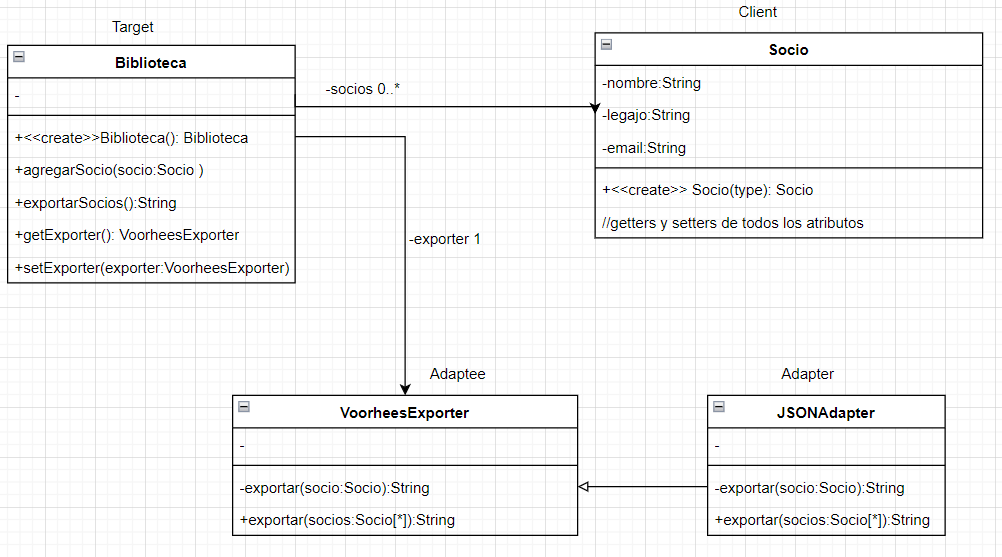
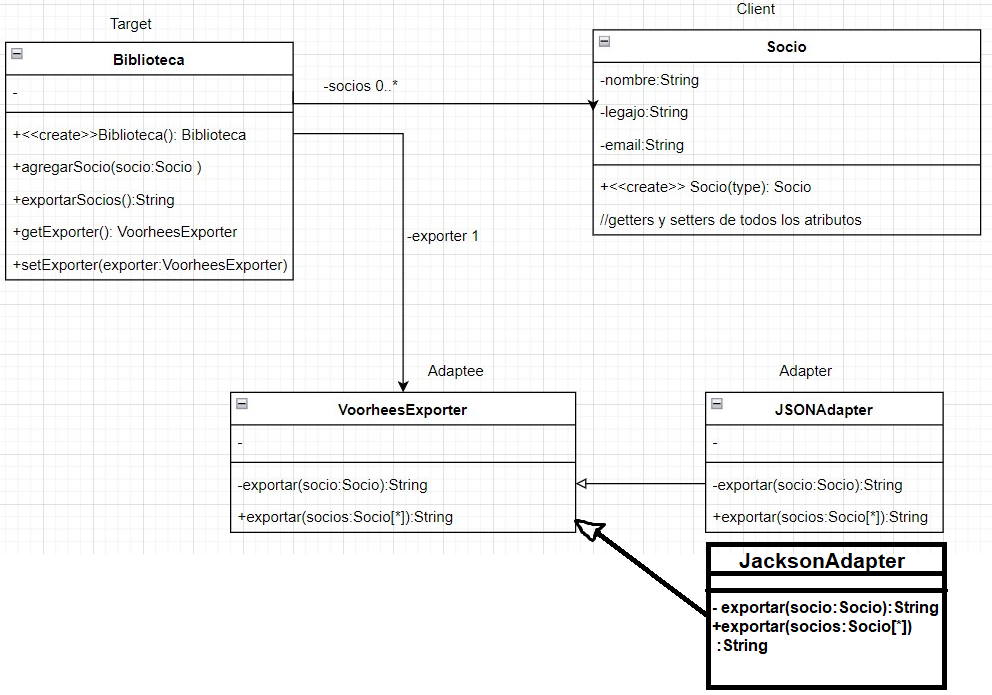
Correcciones 3b y 4, mas que nada mejoras vistas en la clase de consulta

diff --git a/ejercicio3b/ej-biblioteca/src/main/java/ar/edu/unlp/info/oo2/biblioteca/JacksonAdapter.java b/ejercicio3b/ej-biblioteca/src/main/java/ar/edu/unlp/info/oo2/biblioteca/JacksonAdapter.java
@@ -1,0 +1,45 @@
+package ar.edu.unlp.info.oo2.biblioteca;
+
+import java.util.List;
+
+import com.fasterxml.jackson.core.JsonProcessingException;
+import com.fasterxml.jackson.databind.ObjectMapper;
+
+public class JacksonAdapter extends VoorheesExporter {
+
+	private ObjectMapper exportar(Socio socio) {
+		ObjectMapper mapper = new ObjectMapper(); 
+		
+		// esto de try catch me lo pedía para no romper
+		
+		try {
+			mapper.writeValueAsString("nombre: "+ socio.getNombre());
+			mapper.writeValueAsString("email"+socio.getEmail());
+			mapper.writeValueAsString("legajo: "+socio.getLegajo());
+		} catch (JsonProcessingException e) {
+			// TODO Auto-generated catch block
+			e.printStackTrace();
+		}
+		return mapper;
+	}
+	
+	// no se si anda pero tampoco hay mucha info en internet de cómo hacer este
+	@Override
+	public String exportar(List<Socio> socios) {
+		if (socios.isEmpty()) {
+			return "[]";
+		}
+		String separator = System.lineSeparator();
+		StringBuilder buffer = new StringBuilder("[" + separator);
+		socios.forEach(socio -> {
+			buffer.append(this.exportar(socio))
+				.append(",")
+				.append(separator);
+		});
+		// remueve la última coma y fin de línea
+		buffer.setLength(buffer.length() - (separator.length() + 1));
+		buffer.append(separator).append("]");
+		return buffer.toString();
+	}
+	
+}

diff --git a/ejercicio4/src/main/java/ar/edu/unlp/info/oo2/ejercicio4/Planta.java b/ejercicio4/src/main/java/ar/edu/unlp/info/oo2/ejercicio4/Planta.java
@@ -1,16 +1,11 @@
 package ar.edu.unlp.info.oo2.ejercicio4;
 
-public class Planta extends Empleado{
+public class Planta extends CasadoConHijos{ // si sos dardo o maria elena pasa
 	
-	private boolean casado;
-	private int hijos;
 	private int antiguedad;
 	
-	
-	
 	public Planta(boolean casado, int hijos, int antiguedad) {
-		this.casado = casado;
-		this.hijos = hijos;
+		super(casado,hijos);
 		this.antiguedad = antiguedad;
 	}
 
@@ -19,11 +14,7 @@ public class Planta extends Empleado{
 	}
 	
 	public double adicional() {
-		double adicional=0;
-		if(casado) adicional+=5000;
-		adicional+=(2000*hijos);
-		adicional+=(2000*antiguedad);
-		return adicional;
+		return super.adicional() + (2000*antiguedad);
 	}
 	
 

diff --git a/ejercicio4/src/main/java/ar/edu/unlp/info/oo2/ejercicio4/Temporario.java b/ejercicio4/src/main/java/ar/edu/unlp/info/oo2/ejercicio4/Temporario.java
@@ -1,16 +1,11 @@
 package ar.edu.unlp.info.oo2.ejercicio4;
 
-public class Temporario extends Empleado{
+public class Temporario extends CasadoConHijos{ // papucho!!!
 
-	private boolean casado;
-	private int hijos;
 	private int horasTrabajo;
 	
-	
-	
 	public Temporario(boolean casado, int hijos, int horasTrabajo) {
-		this.casado = casado;
-		this.hijos = hijos;
+		super(casado, hijos);
 		this.horasTrabajo = horasTrabajo;
 	}
 
@@ -19,9 +14,6 @@ public class Temporario extends Empleado{
 	}
 	
 	public double adicional() {
-		double adicional=0;
-		if(casado) adicional+=5000;
-		adicional+=(2000*hijos);
-		return adicional;
+		return super.adicional();
 	}
 }

diff --git a/ejercicio4/src/main/java/ar/edu/unlp/info/oo2/ejercicio4/CasadoConHijos.java b/ejercicio4/src/main/java/ar/edu/unlp/info/oo2/ejercicio4/CasadoConHijos.java
@@ -1,0 +1,26 @@
+package ar.edu.unlp.info.oo2.ejercicio4;
+
+public abstract class CasadoConHijos extends Empleado { // ay pepe!!!!!
+	
+	private boolean casado;
+	private int hijos;
+	
+	private final double adicionalPorCasado = 5000;
+	private final double adicionalPorHijo = 2000;
+	
+	public CasadoConHijos(boolean casado, int hijos) {
+		this.casado = casado;
+		this.hijos = hijos;
+	}
+	
+	//public abstract double basico();
+	
+	public double adicional() { // template method?
+		double adicional=0;
+		if(casado) adicional+=adicionalPorCasado;
+		adicional+=(adicionalPorHijo*hijos);
+		return adicional;
+	}
+	
+
+}

diff --git a/ejercicio4/src/main/java/ar/edu/unlp/info/oo2/ejercicio4/Empleado.java b/ejercicio4/src/main/java/ar/edu/unlp/info/oo2/ejercicio4/Empleado.java
@@ -11,8 +11,8 @@ public abstract class Empleado {
 	Obligo a que implementen lo que pido.
 	*/
 	
-	final double descuentoBasico = 0.13; 
-	final double descuentoAdicional = 0.05;
+	private final double descuentoBasico = 0.13; 
+	private final double descuentoAdicional = 0.05;
 	
 	public double sueldo() {
 		return (this.basico()+this.adicional())-this.descuento();
